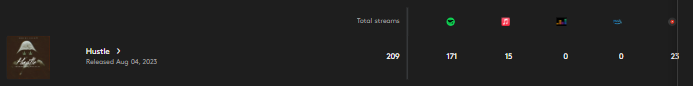
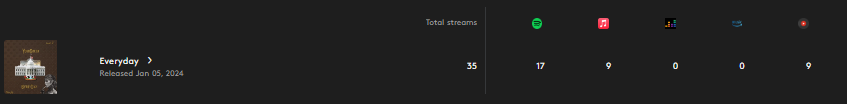
no way

diff --git a/Youngreen.html b/Youngreen.html
@@ -39,16 +39,22 @@
 
         <div class="col-6 col-s-9">
             <h1><img src="Youimg/Youngreens.jpeg" style="border-radius: 50%; width: 70px;" height="70px"> Youngreen</h1>
-            <a href="https://songwhip.com/youngreen/hustle" class="New-release">New Release</a>
+            <a href="https://songwhip.com/youngreen" class="New-release">Artist Page</a>
         </div>
 
         <div class="col-3 col-s-12">
             <div class="aside">
-                <p><small>August 16 2023</small></p>
+                <p><small>December 18 2023</small></p>
                 <a href="https://songwhip.com/youngreen/hustle" target="_blank">
                     <img src="Youimg/Hustle main art cover .JPEG .JPG" width="100px">
                     <h2>Hustle</h2>
                     <p>4th of August 2023</p>
+                </a>
+
+                <a href="https://songwhip.com/youngreen/everyday" target="_blank">
+                    <img src="Youimg/Everyday.jpeg" width="100px">
+                    <h2>Everyday</h2>
+                    <p>5th of January 2024</p>
                 </a>
             </div>
         </div>
